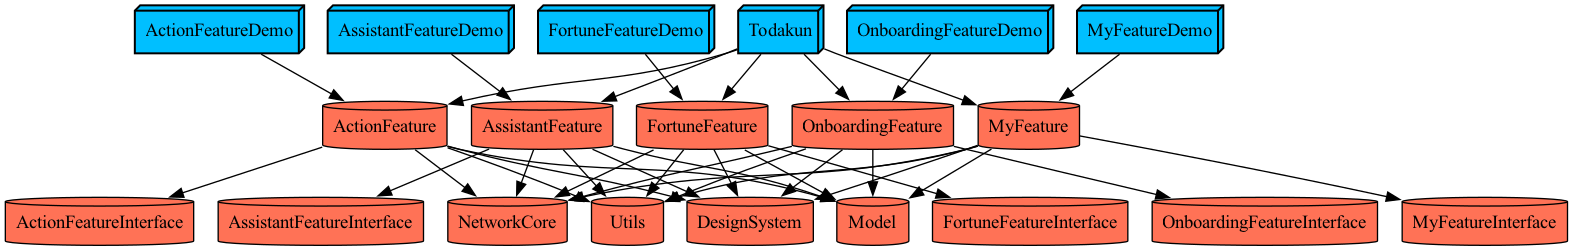
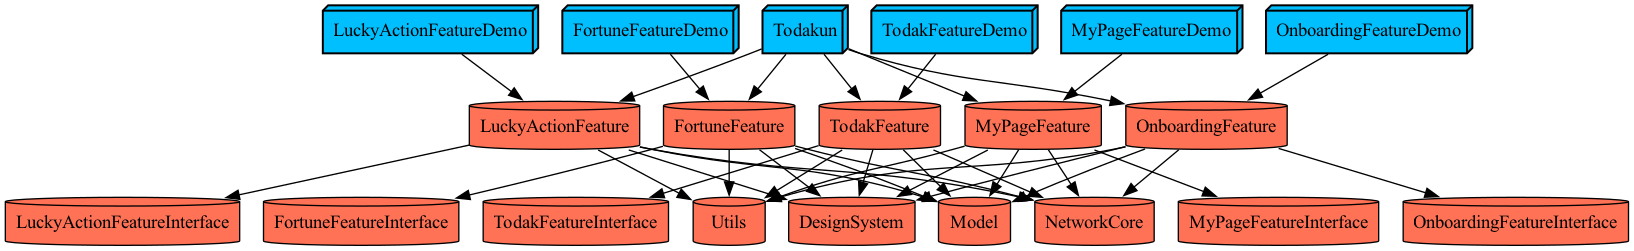
refactor: 도메인 용어 일치 및 키워드 충돌 방지를 위한 피처 이름 변경
- AssistantFeature -> TodakFeature (토닥이 브랜드명 반영)
- ActionFeature -> LuckyActionFeature (TCA Action 키워드와의 네임스페이스 충돌 방지)
- MyFeature -> MyPageFeature (역할을 명확히 나타내도록 변경)
- App 모듈 Project.swift 내 의존성 경로 및 이름 업데이트
- 피처 내부의 데모 앱, 소스 파일, 테스트 파일명 및 코드 내 import 구문 일괄 변경
- README.md 및 SKILL.md 내 구조도 다이어그램과 설명 업데이트

diff --git a/Projects/App/Project.swift b/Projects/App/Project.swift
@@ -7,8 +7,8 @@ let project = Project.makeApp(
         .external(name: "ComposableArchitecture"),
         .project(target: "OnboardingFeature", path: .relativeToRoot("Projects/Feature/OnboardingFeature")),
         .project(target: "FortuneFeature", path: .relativeToRoot("Projects/Feature/FortuneFeature")),
-        .project(target: "AssistantFeature", path: .relativeToRoot("Projects/Feature/AssistantFeature")),
-        .project(target: "ActionFeature", path: .relativeToRoot("Projects/Feature/ActionFeature")),
-        .project(target: "MyFeature", path: .relativeToRoot("Projects/Feature/MyFeature"))
+        .project(target: "TodakFeature", path: .relativeToRoot("Projects/Feature/TodakFeature")),
+        .project(target: "LuckyActionFeature", path: .relativeToRoot("Projects/Feature/LuckyActionFeature")),
+        .project(target: "MyPageFeature", path: .relativeToRoot("Projects/Feature/MyPageFeature"))
     ]
 )

diff --git a/README.md b/README.md
@@ -28,18 +28,18 @@ graph TD
         OnboardingIF[OnboardingFeatureInterface]
         Fortune[FortuneFeature]
         FortuneIF[FortuneFeatureInterface]
-        Assistant[AssistantFeature]
-        AssistantIF[AssistantFeatureInterface]
-        Action[ActionFeature]
-        ActionIF[ActionFeatureInterface]
-        My[MyFeature]
-        MyIF[MyFeatureInterface]
+        Todak[TodakFeature]
+        TodakIF[TodakFeatureInterface]
+        LuckyAction[LuckyActionFeature]
+        LuckyActionIF[LuckyActionFeatureInterface]
+        MyPage[MyPageFeature]
+        MyPageIF[MyPageFeatureInterface]
 
         Onboarding -.-> OnboardingIF
         Fortune -.-> FortuneIF
-        Assistant -.-> AssistantIF
-        Action -.-> ActionIF
-        My -.-> MyIF
+        Todak -.-> TodakIF
+        LuckyAction -.-> LuckyActionIF
+        MyPage -.-> MyPageIF
     end
 
     subgraph CoreLayer [Core Layer Common Infrastructure]
@@ -52,19 +52,19 @@ graph TD
     %% App Layer imports features
     TodakunApp --> Onboarding
     TodakunApp --> Fortune
-    TodakunApp --> Assistant
-    TodakunApp --> Action
-    TodakunApp --> My
+    TodakunApp --> Todak
+    TodakunApp --> LuckyAction
+    TodakunApp --> MyPage
     
     %% Example of Feature Navigation via Interface
-    Action -. "Routing (Example/Planned)" .-> FortuneIF
+    LuckyAction -. "Routing (Example/Planned)" .-> FortuneIF
     
     %% Features depend on Core
     Onboarding --> CoreLayer_Nodes[Core Modules]
     Fortune --> CoreLayer_Nodes
-    Assistant --> CoreLayer_Nodes
-    Action --> CoreLayer_Nodes
-    My --> CoreLayer_Nodes
+    Todak --> CoreLayer_Nodes
+    LuckyAction --> CoreLayer_Nodes
+    MyPage --> CoreLayer_Nodes
 
     %% Styling
     classDef app fill:#ff9999,stroke:#333,stroke-width:2px;
@@ -73,8 +73,8 @@ graph TD
     classDef core fill:#99ff99,stroke:#333,stroke-width:2px;
     
     class TodakunApp app;
-    class Onboarding,Fortune,Assistant,Action,My feature;
-    class OnboardingIF,FortuneIF,AssistantIF,ActionIF,MyIF interface;
+    class Onboarding,Fortune,Todak,LuckyAction,MyPage feature;
+    class OnboardingIF,FortuneIF,TodakIF,LuckyActionIF,MyPageIF interface;
     class DesignSystem,NetworkCore,Model,Utils core;
 ```
 
@@ -82,9 +82,9 @@ graph TD
 - **Projects/Feature**: 서로 완벽히 격리된 독립적인 비즈니스 로직 및 화면 단위
   - `OnboardingFeature`: 최초 설정 (닉네임, 생년월일, 성별, 관심 주제 선택)
   - `FortuneFeature`: 운세 리포트, 행운 액션 (운세 탭)
-  - `AssistantFeature`: 고민 결정 도우미 (토닥이 탭)
-  - `ActionFeature`: 오늘의 행동 추천 및 실행 (행운 액션 탭)
-  - `MyFeature`: 설정 및 프로필 (마이 탭)
+  - `TodakFeature`: 고민 결정 도우미 (토닥이 탭)
+  - `LuckyActionFeature`: 오늘의 행동 추천 및 실행 (행운 액션 탭)
+  - `MyPageFeature`: 설정 및 프로필 (마이 탭)
 - **Projects/Core**: 앱 전반에 걸쳐 사용되는 공통 모듈
   - `DesignSystem`: 컬러, 폰트, 공통 UI 컴포넌트 및 에셋
   - `NetworkCore`: 네트워크 API 클라이언트